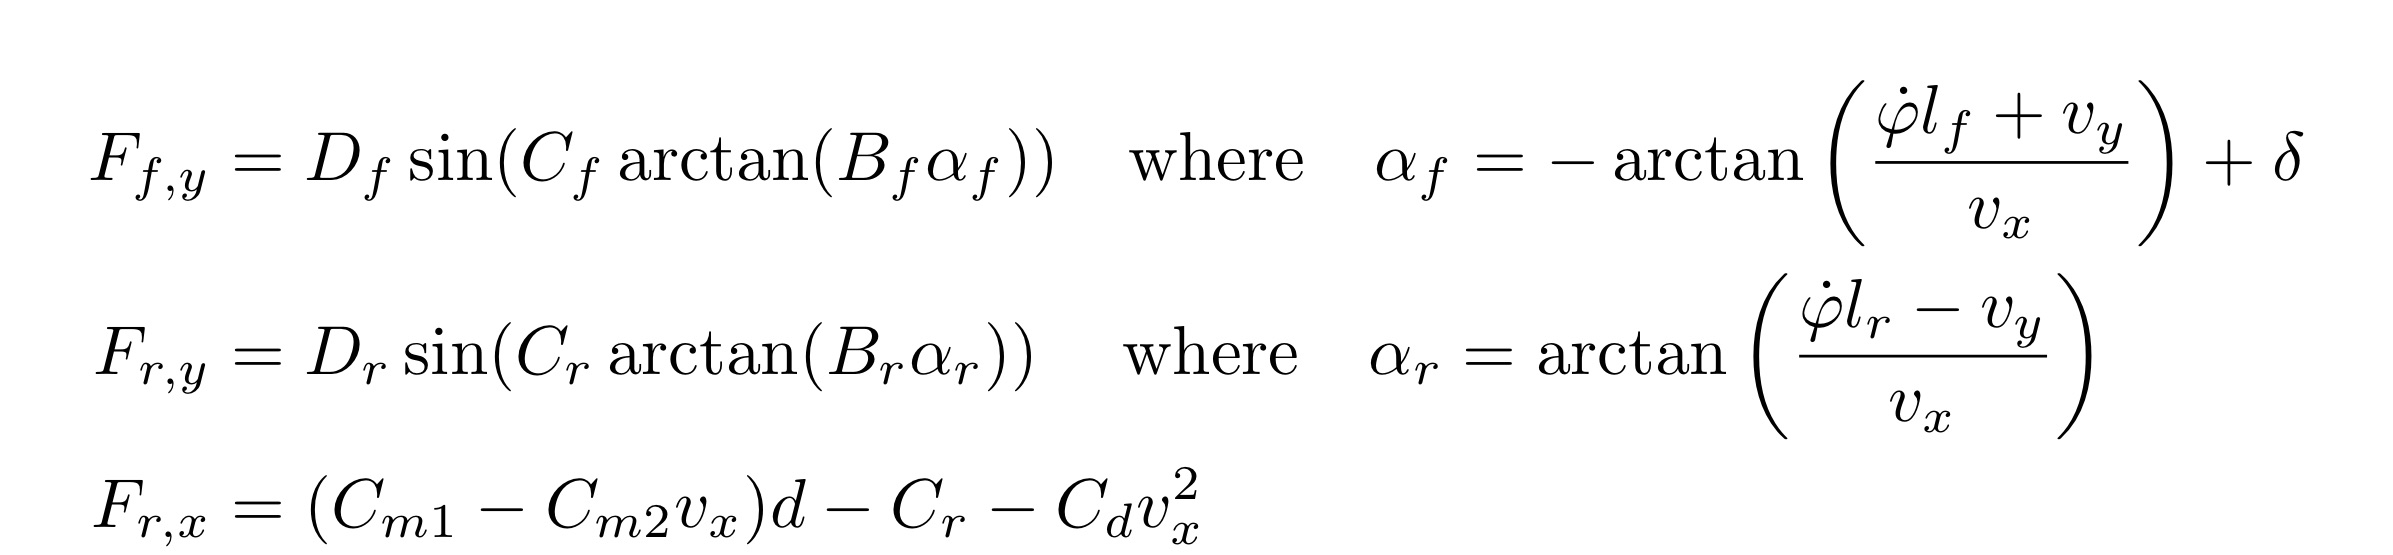
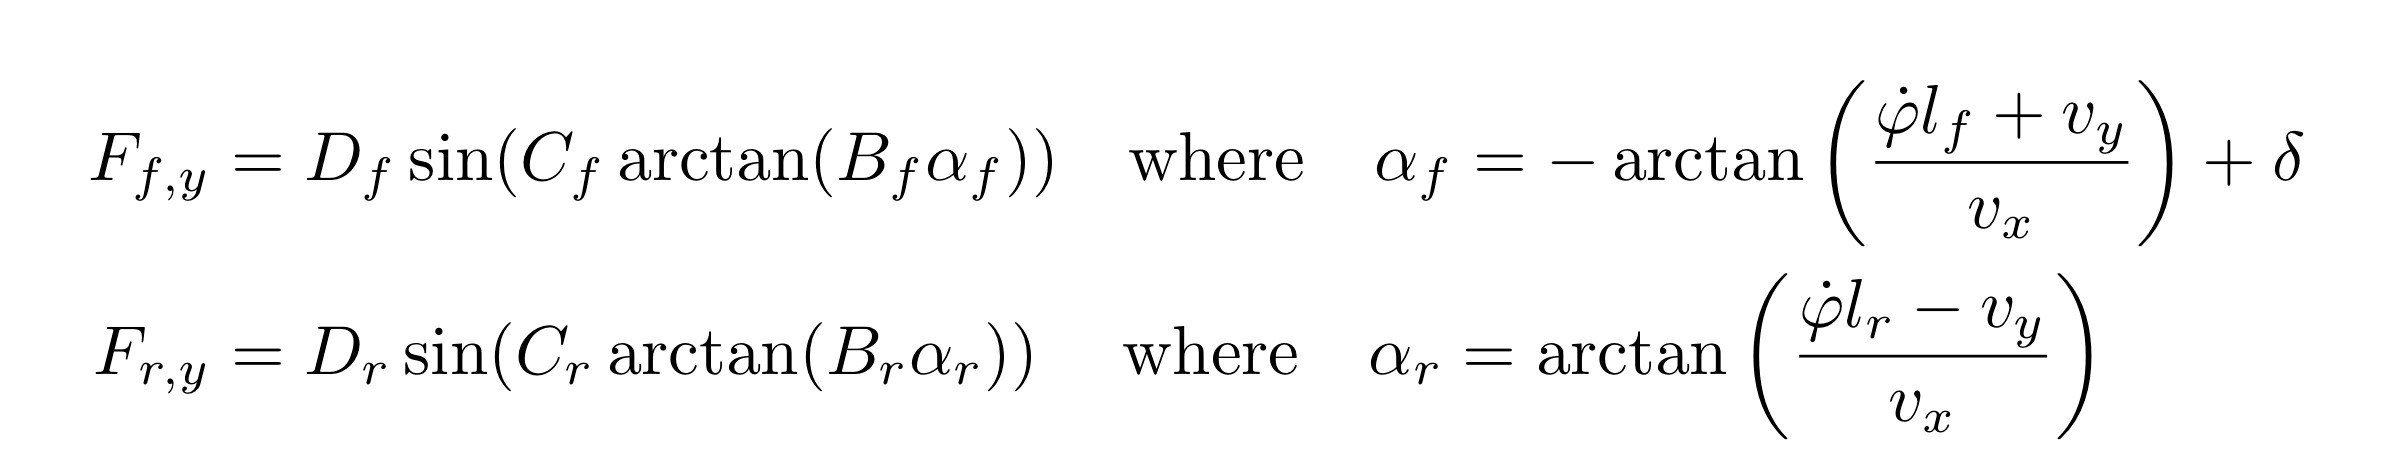
Fix tire model

diff --git a/djsr.html b/djsr.html
@@ -136,18 +136,18 @@
 							</p>
 							<p>Occlusion of background cones is handled by outlier filtering.</p>
 							<h2>
-								Velocity Estimation and Simultaneous Localization and Mapping
+								Pose/Velocity Estimation and Simultaneous Localization and Mapping
 							</h2>
-							<p>The extended Kalman Filter was chosen as an estimator for mildly non-linear systems with white Gaussian noise. Our main task here is to fuse data from an Inertial Measurement Unit (SBG Ellipse N), 4 wheel encoders, steering angle sensor and a dual GPS system in a moving baseline configuration. EKF is also computationally more efficient than the Unscented Kalman Filter<sup id="20_return"><a href="#20">[20]</a></sup> and allows us to estimate the state at 200 Hz.</p>
+							<p>The extended Kalman Filter was chosen as an estimator for mildly non-linear systems with white Gaussian noise. Our main task here is to fuse data from an Inertial Measurement Unit (SBG Ellipse N), 4 wheel encoders, steering angle sensor and a dual GPS system in a moving baseline configuration. EKF is also computationally more efficient than the Unscented Kalman Filter<sup id="20_return"><a href="#20">[20]</a></sup> and allows us to estimate the state at 200 Hz. Here, the effects of lateral load transfer are ignored and the track is assumed to be flat 2D surface.</p>
 							<p align="center">
-								Velocity Estimation Pipeline
+								State Estimation Pipeline
 							</p>
 							<p align="center">
 								<img width="75%" height="75%" src="images/velocity_estimation.png">
 							</p>
 							<p>We consider that our system model is a constant velocity model (CTRV)<sup id="2_return"><a href="#2">[2]</a></sup>, the jerk is assumed to be zero in this case and acceleration is used as a pseudo input to the system.</p>
 							<p>The wheel encoders along with the steering angle potentiometer are used to estimate the slip ratios of the vehicle.</p>
-							<p>The state vector is taken as</p>
+							<p>The 6-DOF state vector is taken as</p>
 							<p align="center">
 								<img width="25%" height="25%" src="images/state_vector.jpg">
 							</p>
@@ -180,7 +180,7 @@
 								<img width="75%" height="75%" src="images/slam_pipeline.jpg" />
 							</p>		
 							<p>
-								Our SLAM pipeline runs at 15 Hz to accomodate for the perception pipeline operation rate. The pose estimates from the SLAM node are then taken by the velocity estimation node to provide fast pose updates at 200 Hz for the control algorithm. This ensures that the MPC node always recieves the latest pose estimates. 
+								Our SLAM pipeline runs at 15 Hz to accomodate for the perception pipeline operation rate. The pose estimates from the SLAM node are then intergrated by velocity with time by the velocity estimation node to provide fast pose updates at 200 Hz for the control algorithm. This ensures that the MPC node always recieves the latest pose estimates. 
 							</p>						
 							<h2>
 								Path Planning
@@ -234,12 +234,15 @@
 							<p align="center">
 								<img width="50%" height="50%" src="images/tire_model.jpg">
 							</p>
-							<p>Here <i>D, C, B</i> are coefficients obtained from the Pacejka tire model. <i>d</i> is the driving command (acceleration), <i>C<sub>r</sub></i> is the rolling resistance, <i>α<sub>f, r</sub></i> are tire slip angles, and <i>C<sub>d</sub></i> is the drag coefficient. <i>C<sub>m1, m2</sub></i> are experimentally determined constants to calculate the driving force.</p>
+							<p align="center">
+								<img width="20%" height="20%" src="images/tire_model_x.jpg">
+							</p>
+							<p>Here <i>D, C, B</i> are coefficients obtained from the Pacejka tire model. <i>d</i> is the driving command (acceleration), <i>C<sub>r</sub></i> is the rolling resistance, <i>α<sub>f, r</sub></i> are tire slip angles, and <i>C<sub>d</sub></i> is the drag coefficient. <i>m</i> is the mass of the vehicle.</p>
 							<p>
 								<h4 align="center">State Input</h4>
 							</p>
 							<p align="center">
-								<img width="50%" height="50%" src="images/state_input.jpg">
+								<img width="25%" height="25%" src="images/state_input.jpg">
 							</p>
 							<p>
 								<h4>The lateral and cross-track errors are defined as</h4>
